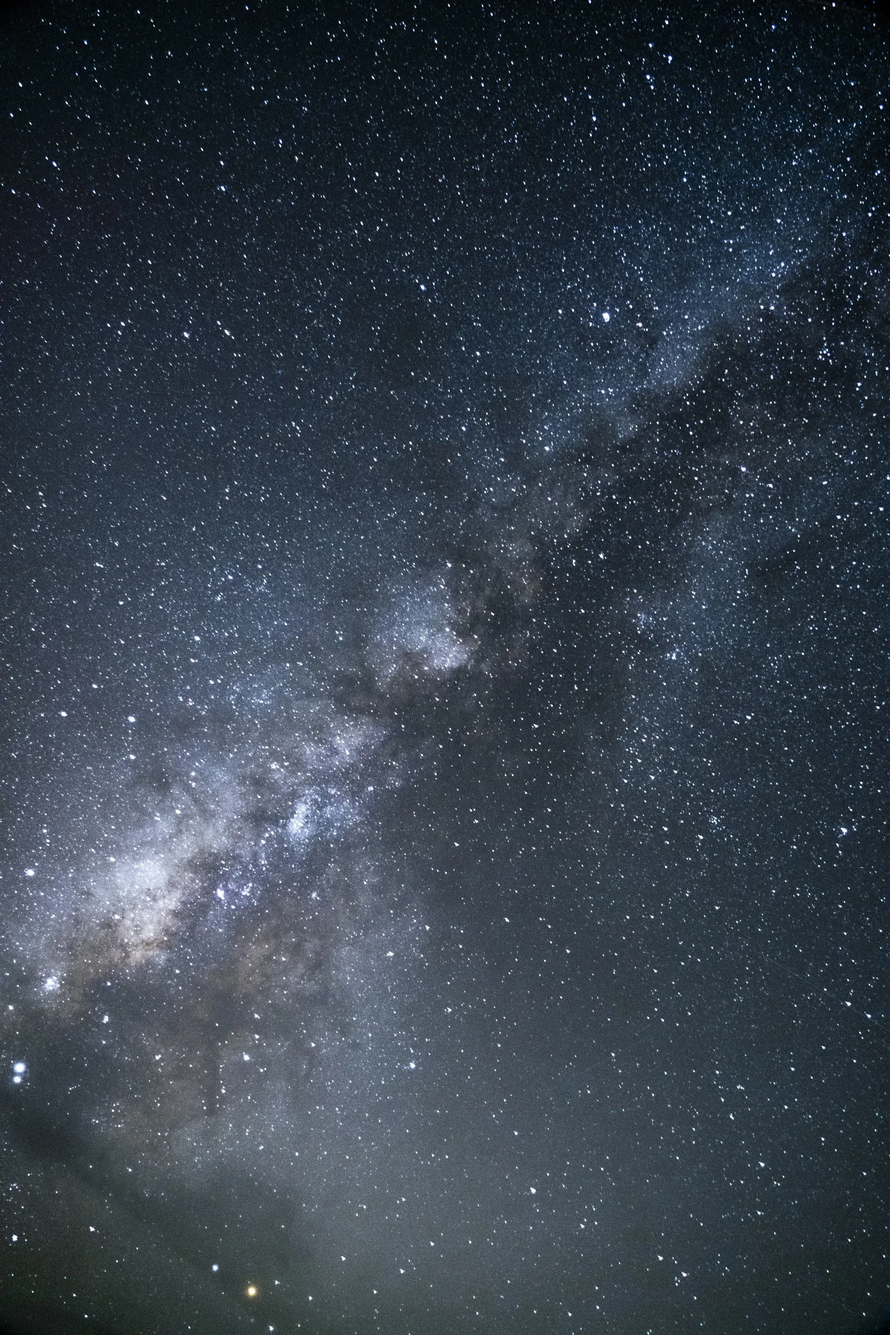
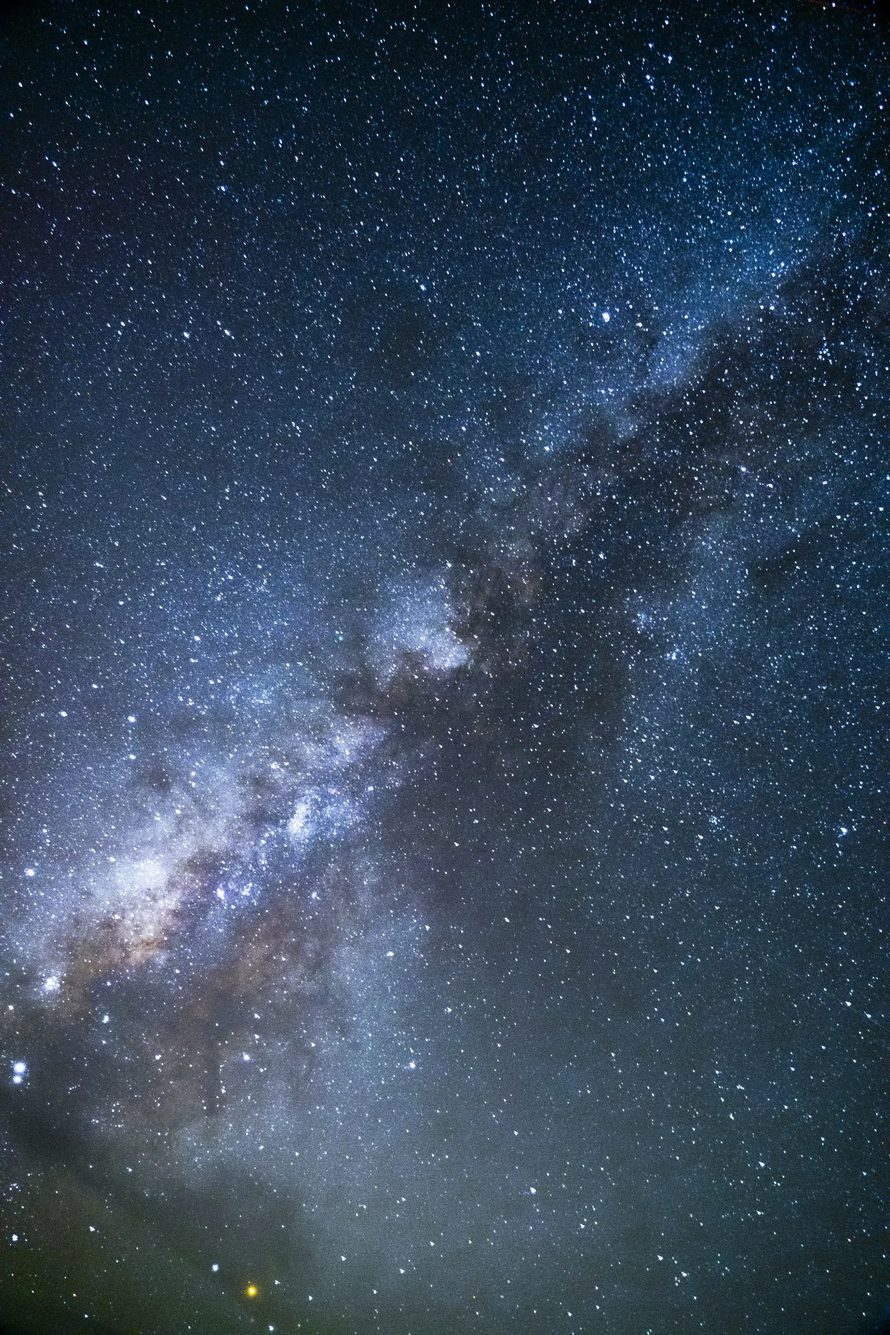
Update Milky Way metadata and gallery selection

diff --git a/photography/index.html b/photography/index.html
@@ -61,15 +61,9 @@
       <section class="photography-shell">
         <section class="photo-collection photo-collection--mixed" aria-label="Photography collection">
           <div class="photo-grid" aria-label="Photography by Boran Han">
-            <figure class="photo-frame photo-frame--feature">
-              <button class="photo-open" type="button" data-location="Iceland" data-date="July - October 2025" aria-label="Open photograph 1">
-                <img src="/assets/photography/fire-and-ice/01.webp" alt="A fragment of blue ice floating in a glacial lagoon." width="2400" height="1284" fetchpriority="high" decoding="async">
-                <span class="photo-number" aria-hidden="true">01</span>
-              </button>
-            </figure>
             <figure class="photo-frame">
-              <button class="photo-open" type="button" data-location="Iceland" data-date="July - October 2025" aria-label="Open photograph 2">
-                <img src="/assets/photography/fire-and-ice/03.webp" alt="A dense field of stars and the Milky Way at night." width="1600" height="2400" loading="lazy" decoding="async">
+              <button class="photo-open" type="button" data-location="Iceland" data-date="October 20, 2025" data-camera="Sony ILCE-7M4" data-lens="FE 24-105mm F4 G OSS" data-focal-length="24 mm" data-settings="f/4 / 25 s / ISO 10000" aria-label="Open photograph 2">
+                <img src="/assets/photography/fire-and-ice/03.webp" alt="The Milky Way stretching diagonally across a dense field of stars above Iceland." width="1600" height="2400" fetchpriority="high" decoding="async">
                 <span class="photo-number" aria-hidden="true">02</span>
               </button>
             </figure>
@@ -223,12 +217,6 @@
                 <span class="photo-number" aria-hidden="true">28</span>
               </button>
             </figure>
-            <figure class="photo-frame photo-frame--two-thirds">
-              <button class="photo-open" type="button" data-location="Africa" data-date="June 2026" aria-label="Open photograph 29">
-                <img src="/assets/photography/africa-2026/11.webp" alt="An antelope crossing morning mist beneath palm trees." width="1616" height="1080" loading="lazy" decoding="async">
-                <span class="photo-number" aria-hidden="true">29</span>
-              </button>
-            </figure>
             <figure class="photo-frame photo-frame--third">
               <button class="photo-open" type="button" data-location="Africa" data-date="June 2026" aria-label="Open photograph 30">
                 <img src="/assets/photography/africa-2026/12.webp" alt="The spreading crown of an acacia tree against a pale sky." width="1080" height="1616" loading="lazy" decoding="async">
@@ -313,6 +301,6 @@
         </div>
       </div>
     </footer>
-    <script src="/assets/site.js?v=5" defer></script>
+    <script src="/assets/site.js?v=6" defer></script>
   </body>
 </html>

diff --git a/assets/site.js b/assets/site.js
@@ -123,6 +123,7 @@
       const context = series === location ? date : `${location} / ${date}`;
       const metadata = [
         button.dataset.camera,
+        button.dataset.lens,
         button.dataset.focalLength,
         button.dataset.settings,
       ].filter(Boolean);

diff --git a/404.html b/404.html
@@ -30,6 +30,6 @@
         </div>
       </section>
     </main>
-    <script src="/assets/site.js?v=5" defer></script>
+    <script src="/assets/site.js?v=6" defer></script>
   </body>
 </html>

diff --git a/about/index.html b/about/index.html
@@ -187,6 +187,6 @@
         </div>
       </div>
     </footer>
-    <script src="/assets/site.js?v=5" defer></script>
+    <script src="/assets/site.js?v=6" defer></script>
   </body>
 </html>

diff --git a/index.html b/index.html
@@ -191,6 +191,6 @@
         </div>
       </div>
     </footer>
-    <script src="/assets/site.js?v=5" defer></script>
+    <script src="/assets/site.js?v=6" defer></script>
   </body>
 </html>

diff --git a/publications/index.html b/publications/index.html
@@ -334,6 +334,6 @@
         </div>
       </div>
     </footer>
-    <script src="/assets/site.js?v=5" defer></script>
+    <script src="/assets/site.js?v=6" defer></script>
   </body>
 </html>

diff --git a/research/index.html b/research/index.html
@@ -315,6 +315,6 @@
         </div>
       </div>
     </footer>
-    <script src="/assets/site.js?v=5" defer></script>
+    <script src="/assets/site.js?v=6" defer></script>
   </body>
 </html>
